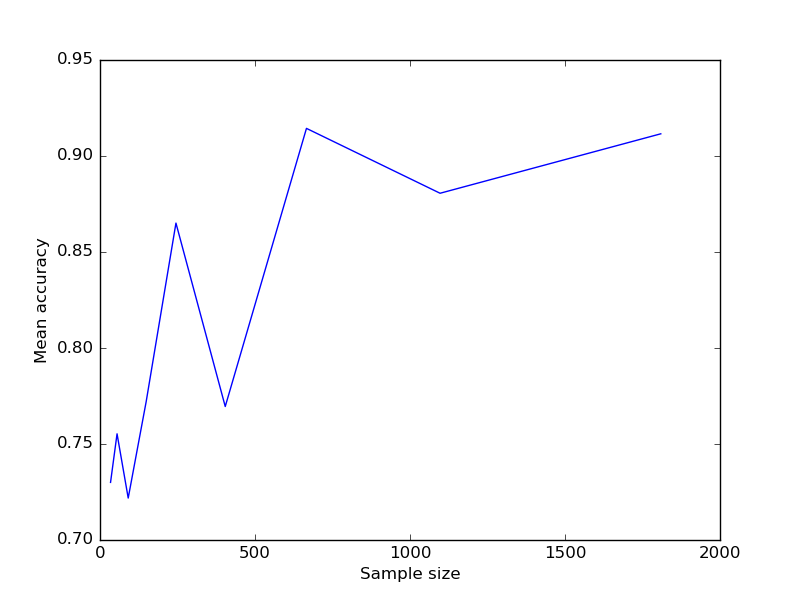
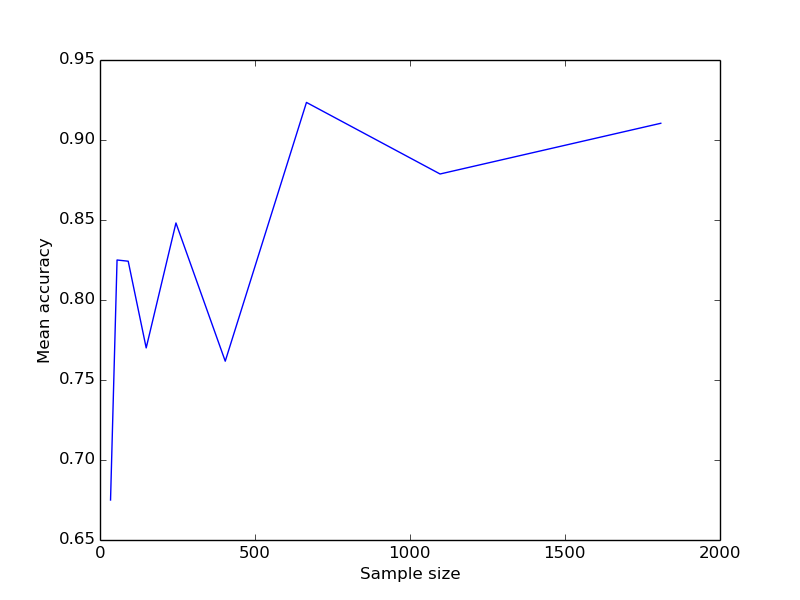
классификация вина

diff --git a/template.html b/template.html
@@ -153,6 +153,23 @@
             <br />
             <h3>Исходные данные для темпорального анализа</h3>
             <div class="block block--scrollable">{{ raw_data_table }}</div>
+
+            <br />
+            <h3>Классификация на данных UC Irvine Machine Learning Repository</h3>
+            <p>
+                <strong>Результат кроссвалидации</strong>
+                <span class="label label-success">
+                    {{ crossvalidation_result }}%
+                </span>
+            </p>
+            <p>
+                <strong>Результат классификации</strong>
+                <span class="label label-success">
+                    {{ classification_result }}%
+                </span>
+            </p>
+            <p><strong>Данные в виде таблицы (исходные данные + предсказанный класс)</strong></p>
+            <div class="block block--scrollable">{{ classification_table }}</div>
         </div>
 
         <div id="geo" class="tabcontent">

diff --git a/output/res/style.css b/output/res/style.css
@@ -1,6 +1,6 @@
 body {width: 70%; margin: 0 15%; font-size: 1.6em; padding-bottom: 70px;}
 .block {padding-left: 25px;}
-.block--scrollable {max-height: 600px; overflow-y: scroll; overflow-x: hidden;}
+.block--scrollable {max-height: 600px; overflow-y: scroll; overflow-x: scroll;}
 /* Style the list */
 ul.tab {
     list-style-type: none;

diff --git a/LingvoAnalysisModule/lingvo.py b/LingvoAnalysisModule/lingvo.py
@@ -15,13 +15,13 @@ time_series_clusters = None
 css_classes = ["table", "table-striped", "table-bordered", "table-hover", "table-condensed"]
 
 
-def entry_point(clusters, geo_clusters, classes, non_classified, scores):
+def entry_point(clusters, geo_clusters, classes, non_classified, scores, cross_val, series, class_result):
     read_files('clustered_data.csv', 'revenue.csv')
-    result = start_analysis(clusters, geo_clusters, classes, non_classified, scores)
+    result = start_analysis(clusters, geo_clusters, classes, non_classified, scores, cross_val, series, class_result)
     render_result(**result.__dict__)
 
 
-def start_analysis(clusters, geo_clusters, classes, non_classified, scores):
+def start_analysis(clusters, geo_clusters, classes, non_classified, scores, cross_val, series, class_result):
     all_clusters_list = clusters.values.flatten().tolist()
     all_clusters_set = set(all_clusters_list)
 
@@ -29,6 +29,9 @@ def start_analysis(clusters, geo_clusters, classes, non_classified, scores):
     geo_clusters_set = set(geo_clusters_list)
 
     report = Report()
+    report.crossvalidation_result = cross_val
+    report.classification_table = series.to_html(classes=css_classes)
+    report.classification_result = class_result
     report.raw_data_table = data_frame.to_html(classes=css_classes)
     report.cluster_table = clusters.to_html(classes=css_classes, header=False)
     report.cluster_scores = scores.to_html(classes=css_classes, header=False)
@@ -88,10 +91,10 @@ def start_analysis(clusters, geo_clusters, classes, non_classified, scores):
         tend_stats = Counter(tendencies)
         cluster.tendency_most = tend_stats.most_common(1)[0][0]
         cluster.tendency_most_count = tend_stats.most_common(1)[0][1]
-        if (len(tend_stats.most_common()) > 1):
+        if len(tend_stats.most_common()) > 1:
             cluster.least_tendency = True
-            cluster.tendency_least = tend_stats.most_common()[:-1-1:-1][0][0]
-            cluster.tendency_least_count = tend_stats.most_common()[:-1-1:-1][0][1]
+            cluster.tendency_least = tend_stats.most_common()[:-1 - 1:-1][0][0]
+            cluster.tendency_least_count = tend_stats.most_common()[:-1 - 1:-1][0][1]
 
         cluster.lingvo_result = fuzzy_lingvo_scale(cluster_elements[cluster_id], cluster_id)
 
@@ -118,6 +121,7 @@ def start_analysis(clusters, geo_clusters, classes, non_classified, scores):
 
     return report
 
+
 def get_tendency(series):
     if abs(series[0] - series[-1]) > 10:
         if series[0] > series[-1]:
@@ -126,6 +130,7 @@ def get_tendency(series):
             return 'Рост'
     else:
         return 'Стабильность'
+
 
 def count_clusters_statistics(all_clusters_list):
     stat = Counter(all_clusters_list).most_common(None)
@@ -393,7 +398,7 @@ def get_dominating_type(types):
 
     result_keys = [best_key]
     for tpl in types.items():
-        if tpl[0] != best_key and tpl[1]/best_val > 0.75:
+        if tpl[0] != best_key and tpl[1] / best_val > 0.75:
             result_keys.append(tpl[0])
 
     if len(result_keys) == 3:

diff --git a/ClassifierModule/classifier.py b/ClassifierModule/classifier.py
@@ -6,6 +6,7 @@ import math
 from sklearn.ensemble import RandomForestClassifier
 from sklearn import cross_validation, datasets
 
+
 def entry_point(filename, train_data, train_targets):
     series = read_file(filename)
     models = build_models(series)
@@ -18,14 +19,16 @@ def entry_point(filename, train_data, train_targets):
 
     return result, series
 
+
 def get_default_classifier():
     return RandomForestClassifier(n_estimators=10)
+
 
 def build_models(series):
     models = []
     fig, ax = plt.subplots()
     for index, row in series.iteritems():
-        arma_mod = sm.tsa.ARMA(row, (3,0))
+        arma_mod = sm.tsa.ARMA(row, (3, 0))
         arma_res = arma_mod.fit(trend='nc', disp=-1, transparams=True)
         ax = row.ix['2009':].plot(ax=ax)
         models = np.append(models, arma_res.params.values)
@@ -36,12 +39,14 @@ def build_models(series):
 
     return models
 
+
 def classify(classifier, models):
     prediction = classifier.predict(models)
     proba = classifier.predict_proba(models)
 
     result = list(zip(prediction, proba))
     return result
+
 
 def test_classifier():
     prepare_seed = 123123
@@ -50,13 +55,13 @@ def test_classifier():
     sizes = []
     vals = []
 
-    for i in range(1,10):
+    for i in range(1, 10):
         size = math.ceil(math.exp(i / 2 + 3))
         sizes.append(size)
         data, labels = prepare_random_data(prepare_seed, size)
         classifier = get_default_classifier()
 
-        cross_val = cross_validation.cross_val_score(classifier, data, labels, cv=5)
+        cross_val = cross_validation.cross_val_score(classifier, data, labels, cv=10)
 
         vals.append(cross_val.mean())
         pass
@@ -69,9 +74,12 @@ def test_classifier():
     # print(cross_val)
     # print("Accuracy: %0.2f (+/- %0.2f)" % (cross_val.mean(), cross_val.std() * 2))
 
+
 def prepare_random_data(seed, size):
-    data, labels = datasets.make_classification(n_samples=size, n_features=3, n_redundant=0, n_informative=3, n_classes=4, random_state=seed, n_clusters_per_class=1)
-    return (data, labels)
+    data, labels = datasets.make_classification(n_samples=size, n_features=3, n_redundant=0, n_informative=3,
+                                                n_classes=4, random_state=seed, n_clusters_per_class=1)
+    return data, labels
+
 
 def read_file(filename):
     time_series_frame = pd.read_csv(filename, sep=',', index_col=0, parse_dates=True)

diff --git a/ClassifierModule/shm_classifier.py b/ClassifierModule/shm_classifier.py
@@ -1,0 +1,43 @@
+import pandas as pd
+from sklearn import cross_validation
+from sklearn.ensemble import RandomForestClassifier
+
+
+def entry_point():
+    file_name = "data/classification/winequality-red.csv"
+    series = pd.read_csv(file_name, sep=',', index_col=11)
+    train_data = []
+    train_targets = []
+    for index, row in series.iterrows():
+        train_data.append(row.values)
+        train_targets.append(index)
+    cross_val, predictions = test_classification(train_data, train_targets)
+    series = pd.read_csv(file_name, sep=',')
+    series["predict"] = pd.Series(predictions)
+    class_result = find_classification_result(train_targets, predictions)
+    return cross_val, series, class_result
+
+
+def test_classification(train_data, train_targets):
+    classifier = RandomForestClassifier()
+    size = int(len(train_data)/2)
+    classifier.fit(train_data[:size], train_targets[:size])
+    predictions = classifier.predict(train_data)
+    cross_val = cross_validation.cross_val_score(classifier, train_data, train_targets, cv=10)
+    return int(round(cross_val.mean()*100)), predictions
+
+
+def classify(classifier, models):
+    prediction = classifier.predict(models)
+    proba = classifier.predict_proba(models)
+
+    result = list(zip(prediction, proba))
+    return result
+
+
+def find_classification_result(before, after):
+    right = 0
+    for i in range(0, len(before)):
+        if before[i] == after[i]:
+            right += 1
+    return int(round(right*100/len(before)))

diff --git a/start.py b/start.py
@@ -2,16 +2,17 @@ from LingvoAnalysisModule import lingvo
 from ClusteringModule import time_series
 from ClusteringModule import geo_series
 from ClassifierModule import classifier
+from ClassifierModule import shm_classifier
 
 
 def main():
-
+    cross_val, series, class_result = shm_classifier.entry_point()
     clusters, models, indexes, scores = time_series.entry_point('data/time_series.csv')
     classes, non_classified_frame = classifier.entry_point('not_classified.csv', models, indexes)
 
     classifier.test_classifier()
     geo_clusters = geo_series.entry_point('revenue.csv')
-    lingvo.entry_point(clusters, geo_clusters, classes, non_classified_frame, scores)
+    lingvo.entry_point(clusters, geo_clusters, classes, non_classified_frame, scores, cross_val, series, class_result)
     print("Success!")
 
 

diff --git a/ClusteringModule/time_series.py b/ClusteringModule/time_series.py
@@ -42,9 +42,9 @@ def clusterize(models):
     homo = metrics.homogeneity_score(labels_true, clusters)
     completeness = metrics.completeness_score(labels_true, clusters)
 
-    scores_list = [rand, mi,homo,completeness]
+    scores_list = [rand, mi, homo, completeness]
     scores_names = ['Приведенный индекс Ранда', 'Коэф. взаимной информации', 'Гомогенность', 'Полнота кластеров']
-    scores =  pd.DataFrame(data=scores_list, index=scores_names, dtype=object)
+    scores = pd.DataFrame(data=scores_list, index=scores_names, dtype=object)
     return clusters, scores
 
 
